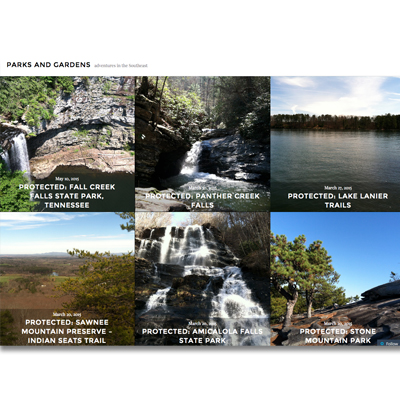
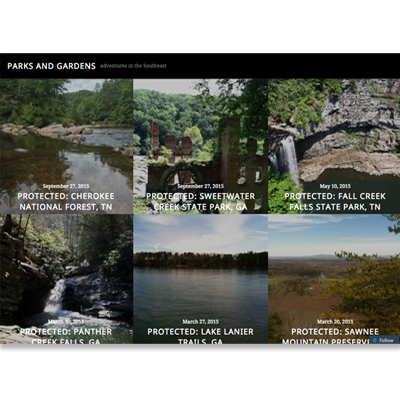
sachamichie updates

diff --git a/SachaPortfolioSite/index.html b/SachaPortfolioSite/index.html
@@ -78,6 +78,33 @@
 
 	<section class="wrapper clearfix" id="printwork">
 		<h1>print work</h1>
+
+
+		<h2>advertising</h2>
+
+		<!--print ads-->
+		<!--LUEUR show ad in NYT-->
+		<figure>
+			<a class="fancybox" rel="group" href="images/LUEURad_TheNewYorkTimes_Oct2015.jpg"><img src="images/sachaportfolio_PrintAds_LUEURshowadinNYT_Oct2015.jpg" alt="LUEUR show ad in The New York Times"></a>
+			<figcaption> LUEUR show ad<br><i>The New York Times</i>, October 2015</figcaption>
+		</figure>
+
+		<!--LUEUR show ad in InStore-->
+		<figure>
+			<a class="fancybox" rel="group" href="images/LUEURad_InStoreOctober2015issue.jpg"><img src="images/sachaportfolio_PrintAds_LUEURshowadinInStoreOct15.jpg" alt="LUEUR show ad in InStore magazine"></a>
+			<figcaption> LUEUR show ad<br><i>InStore</i>, October 2015</figcaption>
+		</figure>
+
+
+		<!--PIER show ad in NYT-->
+		<figure>
+			<a class="fancybox" rel="group" href="images/PIERad_NYT_NOV2015issue.jpg"><img src="images/sachaportfolio_PrintAds_PIERshowadinNYTNov2015.jpg" alt="Pier Antique Show ad in The New York Times"></a>
+			<figcaption> Pier Antique Show ad<br><i>The New York Times</i>, November 2015</figcaption>
+		</figure>
+
+		 <hr id="hrseparator">
+
+
 		<h2>editorial design</h2>
 
 		<!--delete CLASS FOR FANCY BOX later-->
@@ -244,10 +271,10 @@
 
 		<h2>miscellaneous</h2>
 
-		<!--Print ad-->
+		<!--Cheese label-->
 		<figure>
-			<a class="fancybox" rel="group" href="images/LUEURad_InStoreSeptember2015issue.jpg"><img src="images/sachaportfolio_miscellaneous_PrintAd.jpg" alt="LUEUR show Print ad"></a>
-			<figcaption>Print ad for <i>INSTORE</i>, September 2015</figcaption>
+			<a class="fancybox" rel="group" href="images/sachaportfolio_miscellaneous_CheeseLabelLarge.jpg"><img src="images/sachaportfolio_miscellaneous_CheeseLabel.jpg" alt="Cheese label"></a>
+			<figcaption>Cheese label, comp design</figcaption>
 		</figure>
 
 		<!--work sample Invitation-->
@@ -288,11 +315,11 @@
 			<figcaption>sachamichie.com</figcaption>
 		</figure>
 
-		<!--Parksandgardens.wordpress.com-->
+		<!--Parksandgardensus.com-->
 		<figure>
 			<a class="fancybox" rel="group" href="https://parksandgardens.wordpress.com/"><img src="images/sachaportfolio_websites_ParksandGardensSite.jpg" 
-			alt="Parksandgardens.wordpress.com image"></a>
-			<figcaption>Parksandgardens.wordpress.com</figcaption>
+			alt="Parksandgardensus.com image"></a>
+			<figcaption>Parksandgardensus.com</figcaption>
 		</figure>
 
 		

diff --git a/SachaPortfolioSite/art.html b/SachaPortfolioSite/art.html
@@ -130,10 +130,10 @@
 			<figcaption><i>holiday trees</i></figcaption>
 		</figure>
 
-		<!--Cheese Label-->
+		<!--Camellia flower-->
 		<figure>
-			<a class="fancybox" rel="group" href="#"><img src="images/sachaportfolio_illustrations_CheeseLabel.jpg" alt="Cheese Label"></a>
-			<figcaption><i>cheese label</i></figcaption>
+			<a class="fancybox" rel="group" href="#"><img src="images/sachaportfolio_illustrations_camellia.jpg" alt="Camellia flower"></a>
+			<figcaption><i>camellia flower</i></figcaption>
 		</figure>
 
 		<!--My Orchid-->
